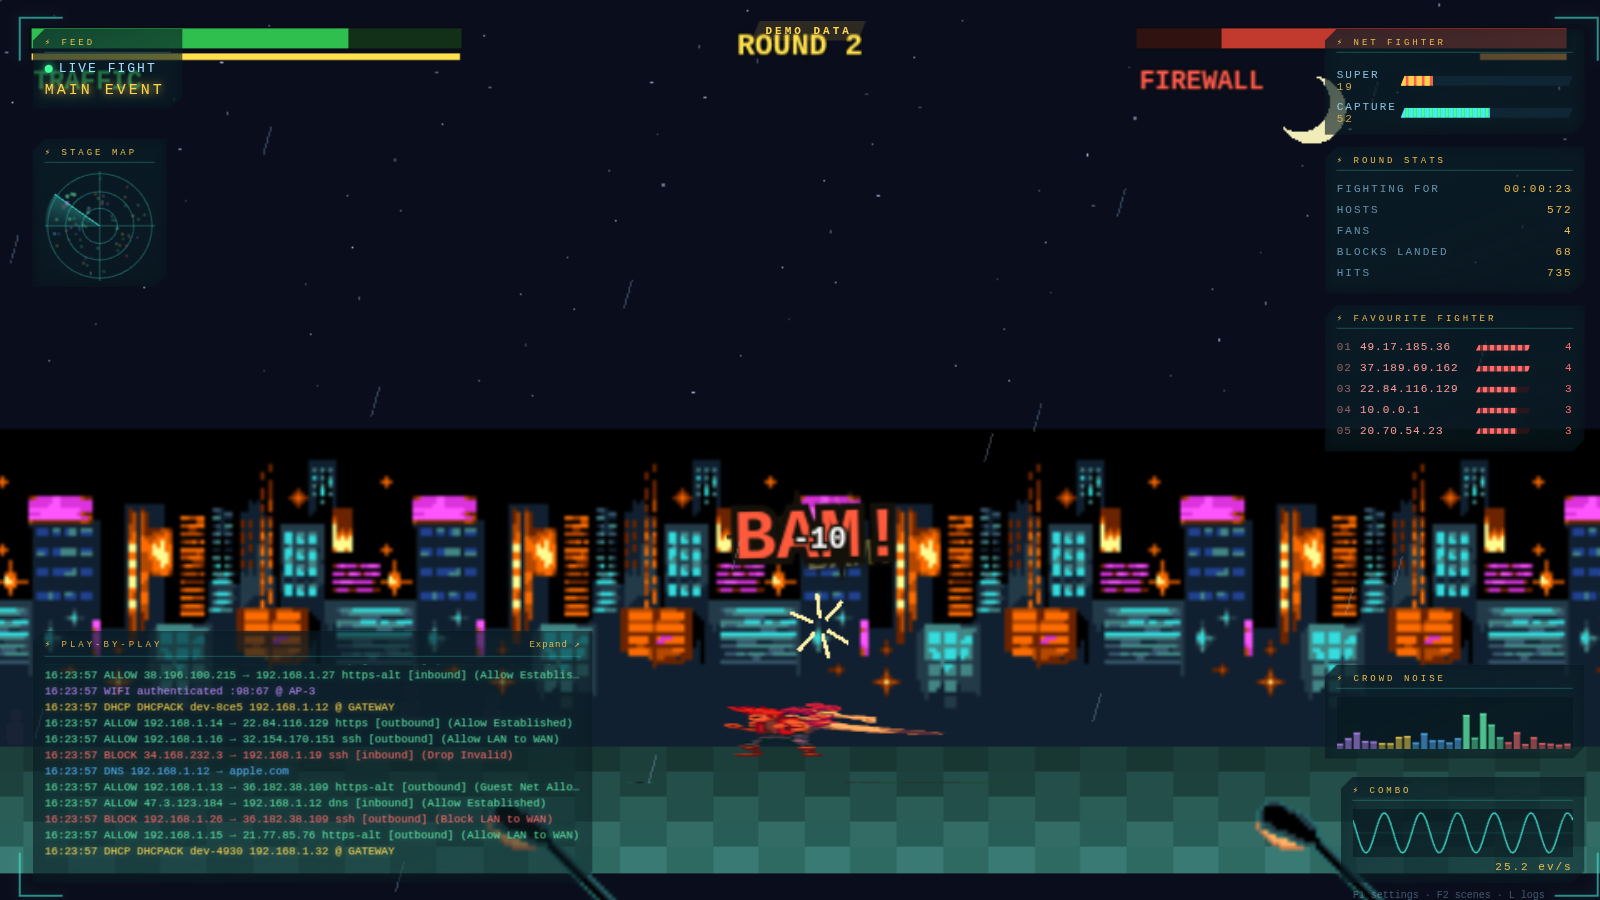
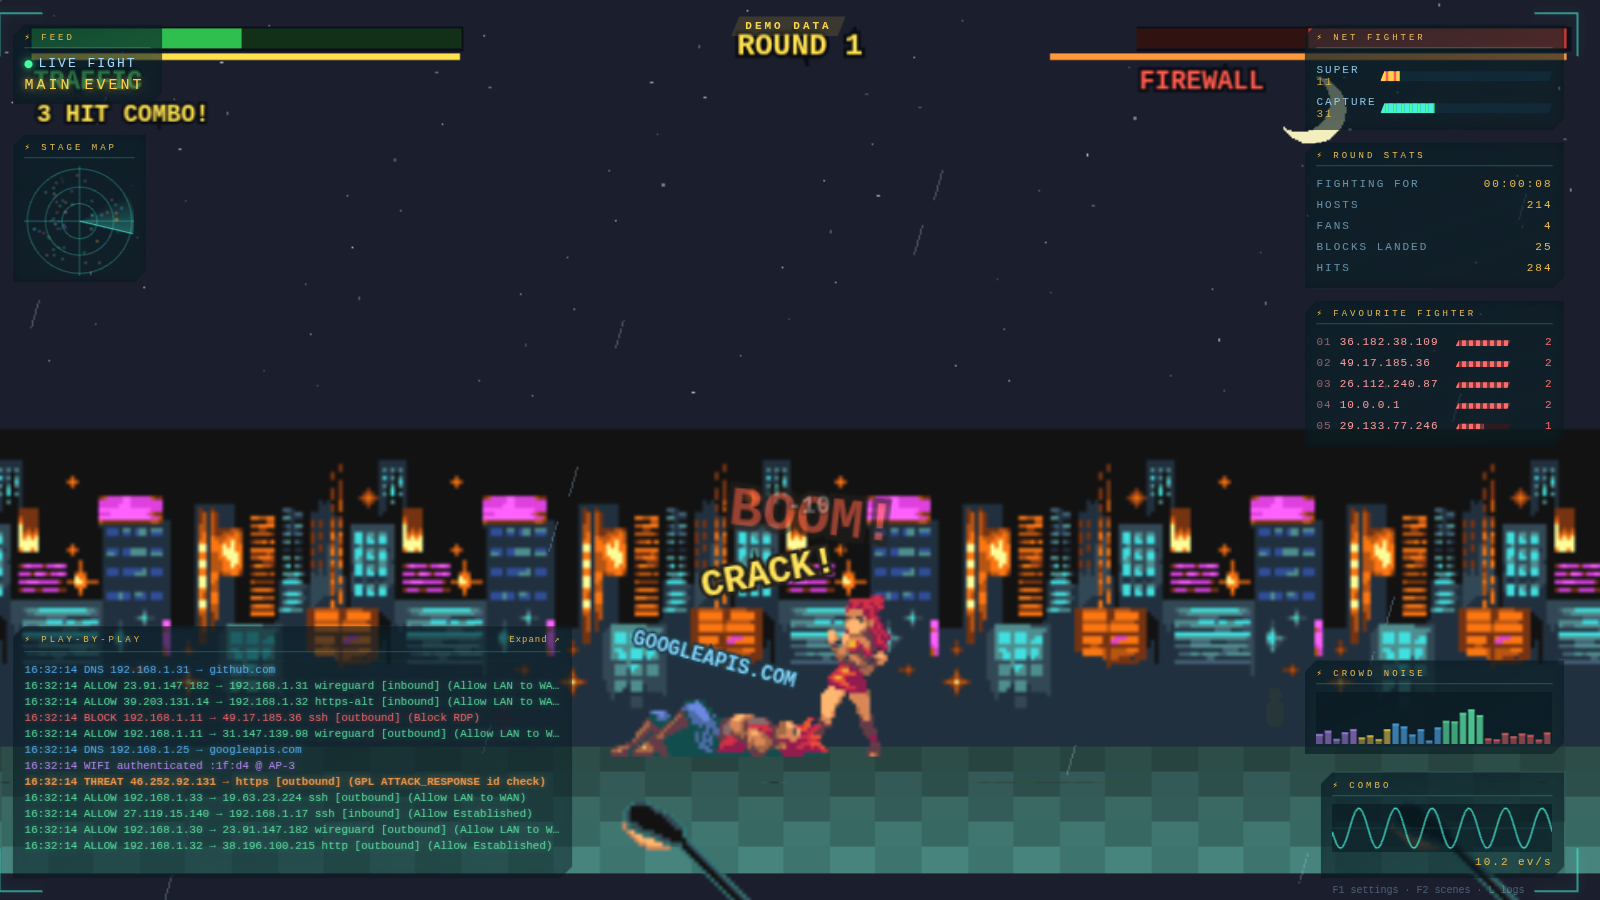
Net Fighter: fix squashed sprites (scale.y never set), softer lightning, fresh screenshots

diff --git a/web/src/themes/netfighter/fighter.ts b/web/src/themes/netfighter/fighter.ts
@@ -54,6 +54,7 @@ export class Fighter {
     this.anim = anims.idle;
     this.sprite.texture = this.anim[0];
     this.sprite.anchor.set(0.5, 1);
+    this.sprite.scale.set(this.baseScale, this.baseScale);
     this.root.addChild(this.sprite);
   }
 
@@ -194,7 +195,7 @@ export class Fighter {
       this.frame = looping ? (this.frame + 1) % this.anim.length : Math.min(this.frame + 1, this.anim.length - 1);
     }
     this.sprite.texture = this.anim[Math.min(this.frame, this.anim.length - 1)];
-    this.sprite.scale.x = this.facing * this.baseScale;
+    this.sprite.scale.set(this.facing * this.baseScale, this.baseScale);
     this.root.y = -this.lift;
     return landed;
   }

diff --git a/web/src/themes/netfighter/stage.ts b/web/src/themes/netfighter/stage.ts
@@ -161,7 +161,7 @@ export class Stage {
     // lightning flash
     if (this.flashT > 0) {
       this.flashT -= dt;
-      this.flashG.alpha = Math.max(0, this.flashT / 0.22) * 0.55;
+      this.flashG.alpha = Math.max(0, this.flashT / 0.22) * 0.3;
     } else if (this.flashG.alpha !== 0) {
       this.flashG.alpha = 0;
     }
